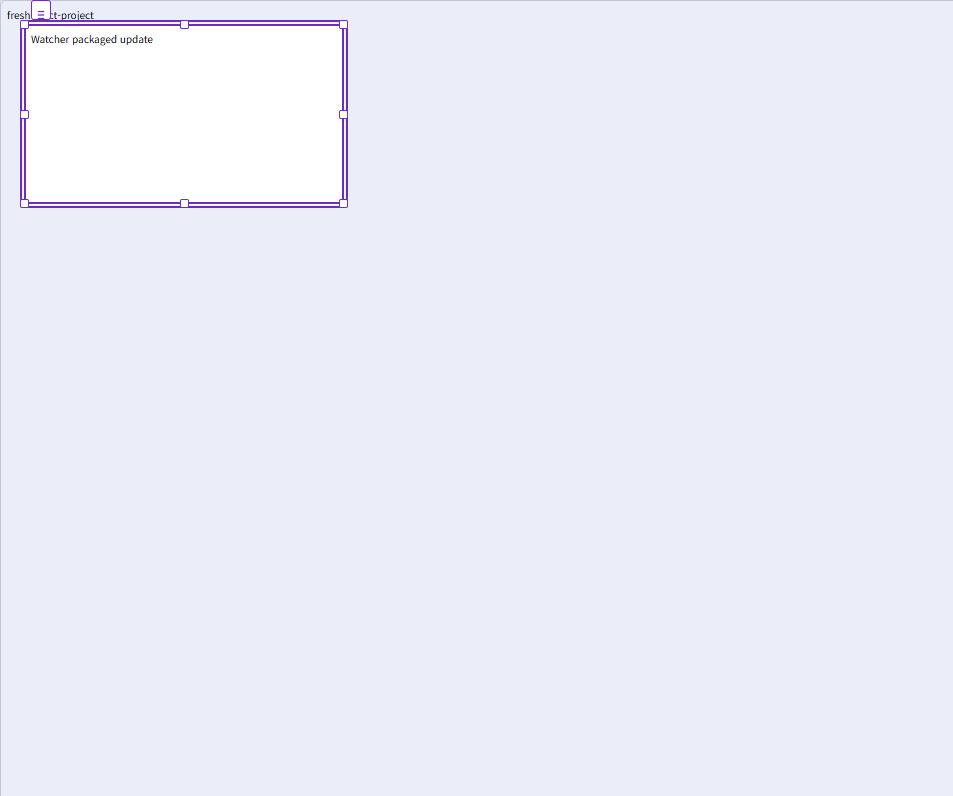
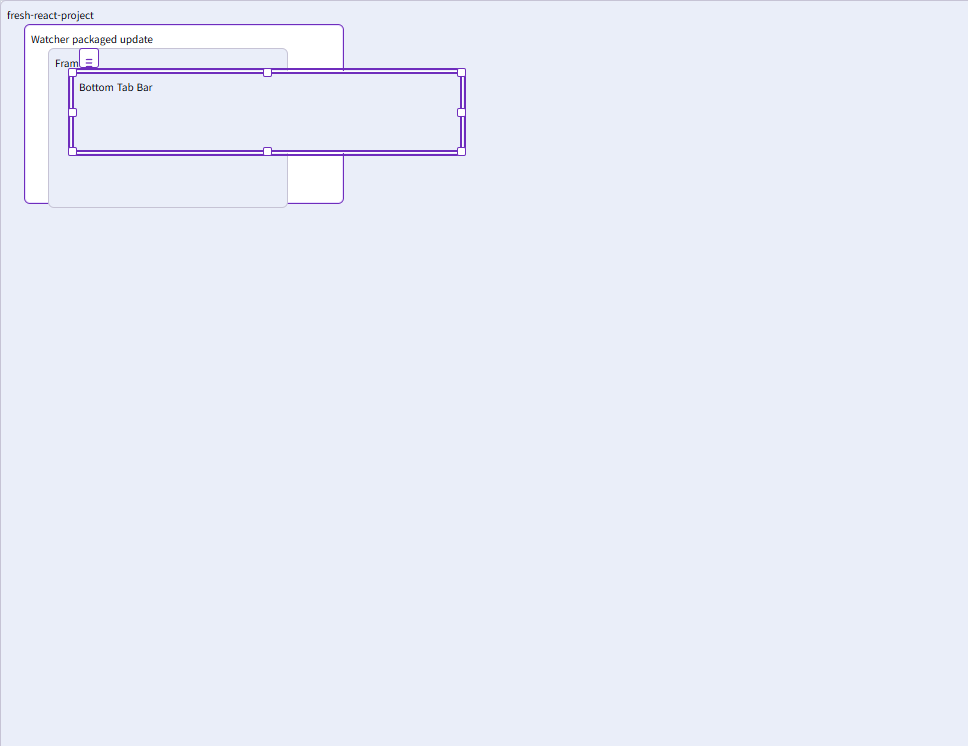
fix(desktop): QA2 step 6 — accept batch canvas operations, packaged E2E registry/collaboration scenarios

Changed region(s): [[0.0, 0.0, 0.4869, 0.2775]]

diff --git a/apps/agent-design-desktop/test/contract.test.ts b/apps/agent-design-desktop/test/contract.test.ts
@@ -30,6 +30,61 @@ describe('canvas relay contract', () => {
     expect(() => parseCanvasMutationRequest({ apiVersion: 1, operation: { id: 'run', at: '2026-07-11T01:00:00.000Z', type: 'run-command', command: 'calc' } })).toThrow('unsupported canvas operation')
   })
 
+  it('accepts a batch operation and validates each child operation against the same whitelist', () => {
+    const request = parseCanvasMutationRequest({
+      apiVersion: 1,
+      operation: {
+        id: 'batch-1',
+        at: '2026-07-11T01:00:00.000Z',
+        type: 'batch',
+        operations: [
+          { id: 'child-1', at: '2026-07-11T01:00:00.000Z', type: 'create-node', node: { id: 'n1' }, parentId: null, index: 0 },
+          { id: 'child-2', at: '2026-07-11T01:00:00.000Z', type: 'select-nodes', nodeIds: ['n1'] },
+        ],
+      },
+    })
+    expect(request.operation.type).toBe('batch')
+  })
+
+  it('rejects a batch operation containing a forbidden child operation type', () => {
+    expect(() =>
+      parseCanvasMutationRequest({
+        apiVersion: 1,
+        operation: {
+          id: 'batch-2',
+          at: '2026-07-11T01:00:00.000Z',
+          type: 'batch',
+          operations: [{ id: 'child-shell', at: '2026-07-11T01:00:00.000Z', type: 'run-command', command: 'calc' }],
+        },
+      }),
+    ).toThrow('unsupported canvas operation')
+  })
+
+  it('rejects a batch operation nesting another batch operation', () => {
+    expect(() =>
+      parseCanvasMutationRequest({
+        apiVersion: 1,
+        operation: {
+          id: 'batch-3',
+          at: '2026-07-11T01:00:00.000Z',
+          type: 'batch',
+          operations: [{ id: 'nested', at: '2026-07-11T01:00:00.000Z', type: 'batch', operations: [{ id: 'leaf', at: '2026-07-11T01:00:00.000Z', type: 'select-nodes', nodeIds: [] }] }],
+        },
+      }),
+    ).toThrow('unsupported canvas operation')
+  })
+
+  it('rejects an empty batch and an oversized batch', () => {
+    expect(() =>
+      parseCanvasMutationRequest({ apiVersion: 1, operation: { id: 'batch-empty', at: '2026-07-11T01:00:00.000Z', type: 'batch', operations: [] } }),
+    ).toThrow('invalid canvas batch operations')
+
+    const oversized = Array.from({ length: 501 }, (_, index) => ({ id: `child-${index}`, at: '2026-07-11T01:00:00.000Z', type: 'select-nodes', nodeIds: [] }))
+    expect(() =>
+      parseCanvasMutationRequest({ apiVersion: 1, operation: { id: 'batch-oversized', at: '2026-07-11T01:00:00.000Z', type: 'batch', operations: oversized } }),
+    ).toThrow('canvas batch is too large')
+  })
+
   it('rejects snapshots with extra secret fields', () => {
     expect(() => parseCanvasSnapshot({
       document: { schemaVersion: 1, revision: 0, nodes: {} },

diff --git a/apps/agent-design-desktop/test/bridge-relay.test.ts b/apps/agent-design-desktop/test/bridge-relay.test.ts
@@ -73,6 +73,38 @@ describe('main-only bridge relay', () => {
     await expect(relay.applyOperation({ id: 'shell', at: '2026-07-11T01:00:01.000Z', type: 'run-command', command: 'calc' })).rejects.toThrow('unsupported canvas operation')
   })
 
+  it('relays an atomic batch operation (e.g. insert-palette node creation) and rejects a batch with a forbidden child', async () => {
+    const socket = new FakeSocket()
+    const fetchImpl = vi.fn(async (input: string | URL | Request) => {
+      const url = String(input)
+      const body = url.endsWith('/snapshot') ? snapshot(0) : url.endsWith('/audit') ? { entries: [] } : { snapshot: snapshot(1) }
+      return new Response(JSON.stringify(body), { status: 200, headers: { 'content-type': 'application/json' } })
+    }) as typeof fetch
+    const relay = new BridgeRelay({ fetchImpl, socketFactory: () => socket, reconnectDelayMs: 60_000 })
+    await relay.connect({ bridgeUrl: 'http://127.0.0.1:4311', token: 't'.repeat(32) })
+
+    await relay.applyOperation({
+      id: 'batch-insert',
+      at: '2026-07-11T01:00:01.000Z',
+      type: 'batch',
+      operations: [
+        { id: 'create-1', at: '2026-07-11T01:00:01.000Z', type: 'create-node', node: { id: 'n1' }, parentId: null, index: 0 },
+        { id: 'select-1', at: '2026-07-11T01:00:01.000Z', type: 'select-nodes', nodeIds: ['n1'] },
+      ],
+    })
+    expect(relay.currentSnapshot().revision).toBe(1)
+
+    await expect(
+      relay.applyOperation({
+        id: 'batch-bad',
+        at: '2026-07-11T01:00:02.000Z',
+        type: 'batch',
+        operations: [{ id: 'shell', at: '2026-07-11T01:00:02.000Z', type: 'run-command', command: 'calc' }],
+      }),
+    ).rejects.toThrow('unsupported canvas operation')
+    relay.disconnect()
+  })
+
   it('derives an actor-attributed collaboration feed from /audit, ordered by revision', async () => {
     const socket = new FakeSocket()
     const auditEntries: unknown[] = [

diff --git a/apps/agent-design-desktop/src/contract.ts b/apps/agent-design-desktop/src/contract.ts
@@ -242,14 +242,35 @@ export function parseCanvasSnapshot(value: unknown): CanvasSnapshot {
   return structuredClone(value) as CanvasSnapshot
 }
 
+const CANVAS_OPERATION_TYPES = new Set([
+  'create-node', 'delete-node', 'update-node', 'transform-nodes', 'set-node-property',
+  'update-text', 'set-token-mode', 'reparent-node', 'reorder-node', 'select-nodes', 'set-viewport',
+])
+const MAX_BATCH_OPERATIONS = 500
+
+/** Validates a single canvas operation shape. `depth` guards against nested batches: a batch's own
+ *  children must be leaf operations (matching canvas-core's `BatchOperation.operations: Exclude<CanvasOperation, BatchOperation>[]`). */
+function assertValidCanvasOperationShape(operation: Record<string, unknown>, depth: number): void {
+  if (typeof operation.id !== 'string' || !/^[A-Za-z0-9][A-Za-z0-9._:-]{0,127}$/.test(operation.id)) throw new TypeError('invalid canvas operation id')
+  if (typeof operation.at !== 'string' || Number.isNaN(Date.parse(operation.at))) throw new TypeError('invalid canvas operation timestamp')
+  if (operation.type === 'batch') {
+    if (depth > 0) throw new TypeError('unsupported canvas operation')
+    if (!Array.isArray(operation.operations) || operation.operations.length === 0) throw new TypeError('invalid canvas batch operations')
+    if (operation.operations.length > MAX_BATCH_OPERATIONS) throw new TypeError('canvas batch is too large')
+    for (const child of operation.operations) {
+      if (!isRecord(child)) throw new TypeError('invalid canvas batch child operation')
+      assertValidCanvasOperationShape(child, depth + 1)
+    }
+    return
+  }
+  if (typeof operation.type !== 'string' || !CANVAS_OPERATION_TYPES.has(operation.type)) throw new TypeError('unsupported canvas operation')
+}
+
 export function parseCanvasMutationRequest(value: unknown): CanvasMutationRequest {
   if (!isRecord(value) || Object.keys(value).some((key) => key !== 'apiVersion' && key !== 'operation')) throw new TypeError('invalid canvas mutation request')
   if (value.apiVersion !== HOST_API_VERSION || !isRecord(value.operation)) throw new TypeError('invalid canvas mutation version or operation')
   const operation = value.operation
-  const types = new Set(['create-node', 'delete-node', 'update-node', 'transform-nodes', 'set-node-property', 'update-text', 'set-token-mode', 'reparent-node', 'reorder-node', 'select-nodes', 'set-viewport'])
-  if (typeof operation.type !== 'string' || !types.has(operation.type)) throw new TypeError('unsupported canvas operation')
-  if (typeof operation.id !== 'string' || !/^[A-Za-z0-9][A-Za-z0-9._:-]{0,127}$/.test(operation.id)) throw new TypeError('invalid canvas operation id')
-  if (typeof operation.at !== 'string' || Number.isNaN(Date.parse(operation.at))) throw new TypeError('invalid canvas operation timestamp')
+  assertValidCanvasOperationShape(operation, 0)
   if (JSON.stringify(operation).length > 1_000_000) throw new TypeError('canvas operation is too large')
   return Object.freeze({ apiVersion: HOST_API_VERSION, operation: structuredClone(operation) as unknown as CanvasOperation })
 }

diff --git a/changesets/20260712-packaged-e2e-batch-contract/README.md b/changesets/20260712-packaged-e2e-batch-contract/README.md
@@ -1,0 +1,20 @@
+# 20260712 desktop batch 계약 + packaged E2E registry/협업 시나리오
+
+Target: QA2 Step 6 — 유지보수 (H1 close 잔여) + dogfooding 결함 #1 해소.
+
+## Scope
+
+- **계약 확장 (결함 #1 근본 수정)**: `apps/agent-design-desktop/src/contract.ts` `parseCanvasMutationRequest`가 UX2 `batch` operation을 수용 — 자식 operation 각각을 동일 화이트리스트로 재귀 검증, 중첩 batch 거부, 빈/500개 초과 batch 거부, 1MB 총량 제한 유지, `run-command` 등 미지 타입 거부 불변. 설치본에서 팔레트 삽입(primitive/registry/recipe)이 전부 "unsupported canvas operation"으로 거부되던 결함의 수정.
+- **packaged E2E 시나리오 통합**: `scripts/run-packaged-e2e.mjs`에 (a) registry 조립 — insert palette로 primitive frame + recipe(bottom-tab-bar) 삽입 후 node count·revision 증가 assert, (b) 협업 패널 — agents 패널에 같은 run의 Codex/Claude MCP transaction feed 항목 존재 assert. 기존 trusted-project 단일 launch phase 재사용.
+- 테스트: contract 4건(batch 수용/금지 자식/중첩/초과), bridge-relay 1건(planInsert 산출 batch 릴레이 + run-command 자식 거부) 추가.
+
+## Verification
+
+- [x] `cd apps/agent-design-desktop && npm test` — 11 files, 52/52 PASS (baseline 47 + 5; 오케스트레이터 게이트 재실행 포함)
+- [x] `npm run build` — exit 0
+- [x] `npm run make:win` 재패키징 → `node scripts/run-packaged-e2e.mjs` **PASS**: "collaboration panel shows 2 feed entries including both packaged MCP transactions" / "registry assembly: primitive insertion via batch operation reached revision 5 (3 nodes)" / "recipe insertion (bottom-tab-bar) via batch operation reached revision 6 (4 nodes)" / watcher 122.3ms / restart drift 0px / 5k p95 19.00ms(부하 병행 중 측정)
+- [x] installer lifecycle 재관측 (새 빌드) PASS + dogfooding 설치본 갱신 재설치 (`%LOCALAPPDATA%\askewly_design` — batch 수정 포함 빌드)
+
+## Result
+
+Completed. dogfooding 결함 #1(팔레트 삽입 전면 거부)이 계약 확장으로 근본 수정됐고, 같은 삽입 경로가 packaged E2E의 registry 조립 시나리오로 상시 회귀 방어된다. 협업 패널 시나리오도 통합돼 H1 close 잔여 항목이 소진됐다.

diff --git a/changesets/README.md b/changesets/README.md
@@ -86,3 +86,5 @@
 | 84 | 20260712-qa2-repackage-install | 2026-07-12 | QA2 Step 1: AskewlyDesign repackage (make:win), verify:package, first real install + uninstall/reinstall lifecycle | 4/4 | complete |
 | 85 | 20260712-editor-chrome-dark-mode | 2026-07-12 | QA2 Step 3: editor chrome full dark mode via token-mode toggle, SSOT dark pass in token generator | 3/3 | complete |
 | 86 | 20260712-materialize-undo-file-deletion | 2026-07-12 | QA2 Step 5: materialization undo deletes created file, hash guard preserved, 3 targeted tests | 3/3 | complete |
+| 87 | 20260712-shortcuts-focus-trap | 2026-07-12 | QA2 Step 4: shortcuts dialog Tab/Shift+Tab trap completing the modal focus contract | 3/3 | complete |
+| 88 | 20260712-packaged-e2e-batch-contract | 2026-07-12 | QA2 Step 6: desktop batch operation contract + packaged E2E registry assembly and collaboration panel scenarios | 4/4 | complete |